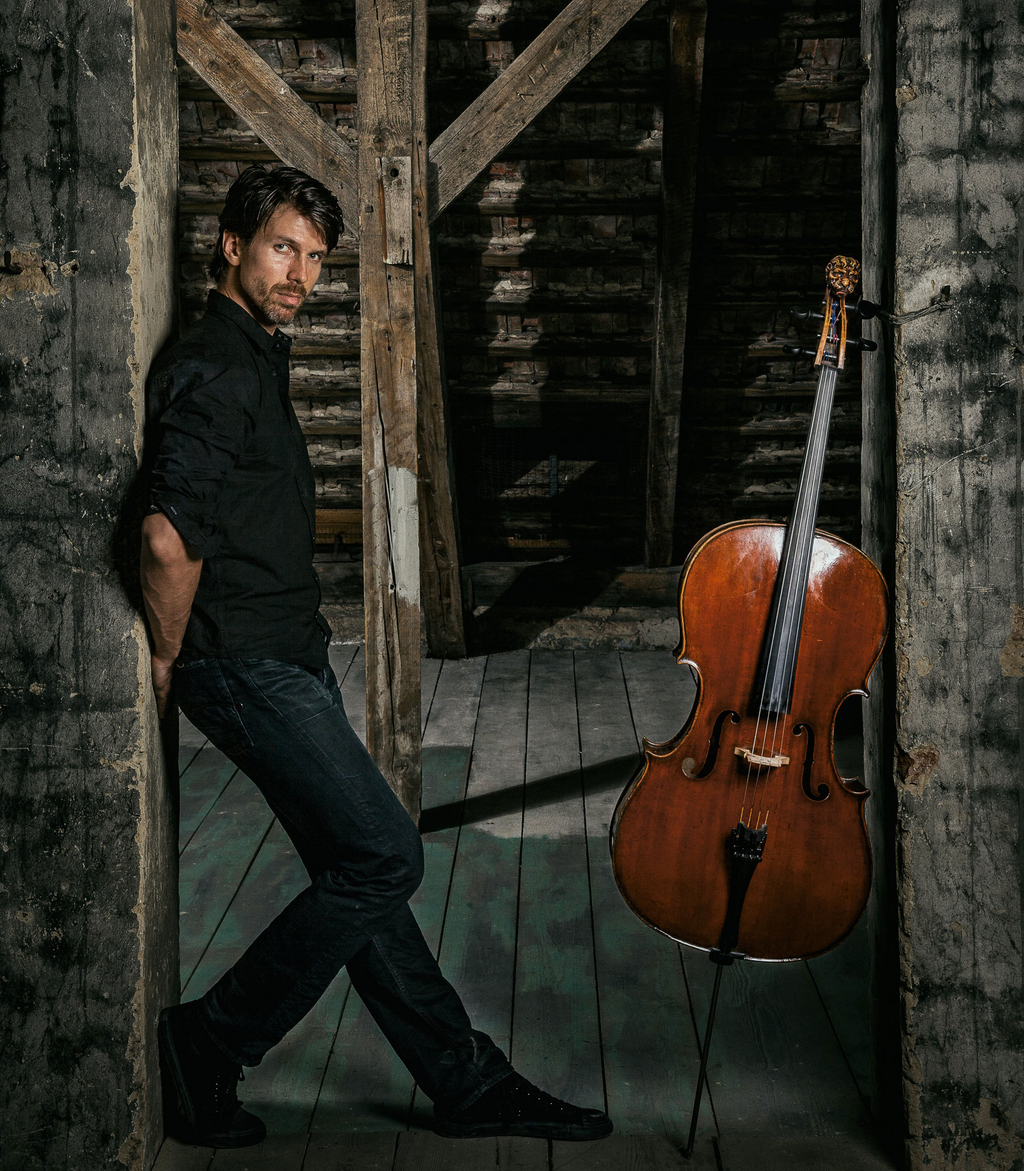
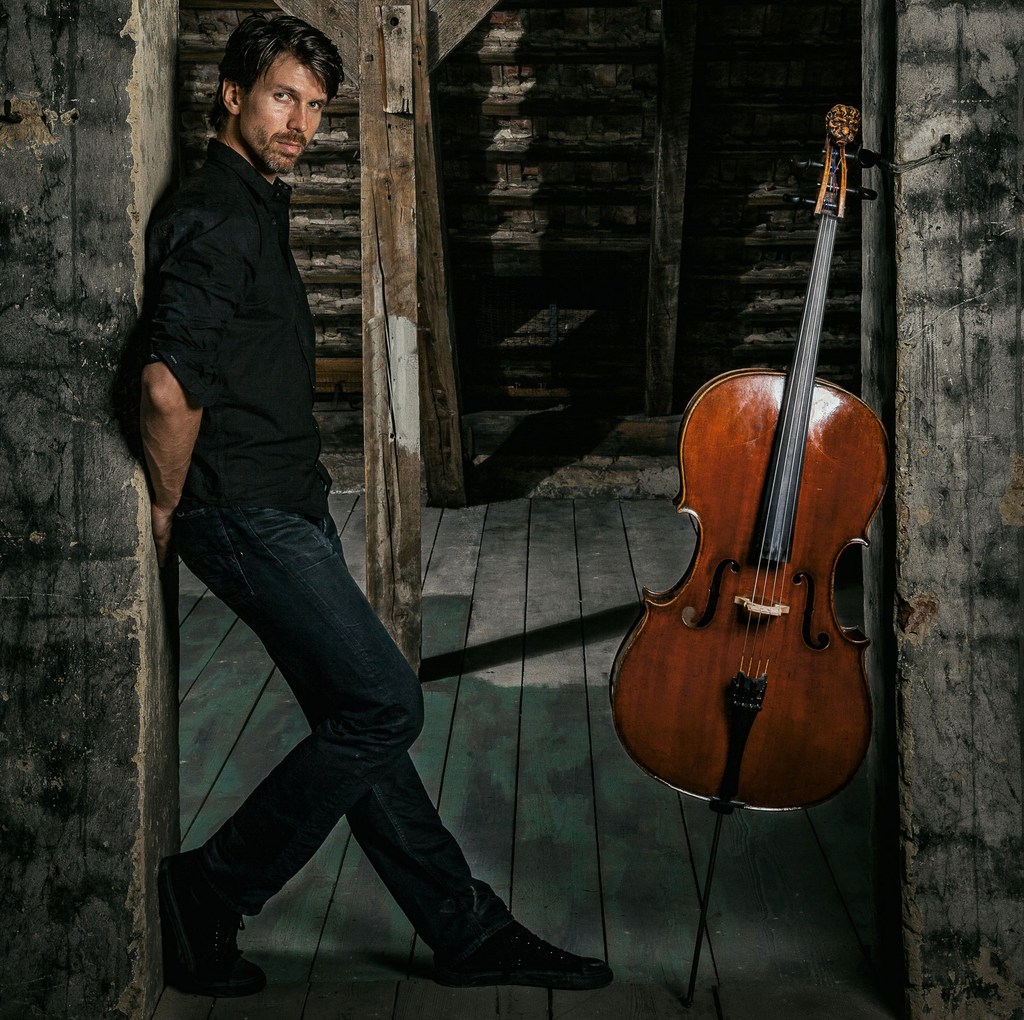
slideshow 4images

diff --git a/static/css/sacra.css b/static/css/sacra.css
@@ -148,6 +148,9 @@ main p{
     padding-left: 10%;
     padding-right: 10%;
 }
+main p:last-of-type{
+    margin-bottom: 4rem;
+}
 main .justify-text p{
     text-align: justify;
 }
@@ -409,7 +412,7 @@ slider {
     display: block;
     width: 100%;
     height: 100%;
-    animation: fade 13.5s infinite;
+    animation: fade 18s infinite;
     overflow: hidden;
     background-color: #f1f1f1;
     left: 0;
@@ -421,21 +424,28 @@ slider {
     animation-delay: 0s;
     background-image: url(/media/banner/slideshow/01.jpg);
     background-size: cover;
-    background-position: center; }
+    background-position: top; }
   
   slide:nth-child(2) {
     left: 0%;
     animation-delay: 4.5s;
     background-image: url(/media/banner/slideshow/02.jpg);
     background-size: cover;
-    background-position: center; }
+    background-position: top; }
   
   slide:nth-child(3) {
     left: 0%;
     animation-delay: 9s;  
     background-image: url(/media/banner/slideshow/03.jpg);
     background-size: cover;
-    background-position: center; }
+    background-position: top; }
+
+slide:nth-child(4) {
+    left: 0%;
+    animation-delay: 13.5s;  
+    background-image: url(/media/banner/slideshow/04.jpg);
+    background-size: cover;
+    background-position: top; }
   
   @keyframes fade {
     0% {

diff --git a/templates/home/index.html b/templates/home/index.html
@@ -31,6 +31,7 @@
     <slide><p></p></slide>
     <slide><p></p></slide>
     <slide><p></p></slide>
+    <slide><p></p></slide>
 </slider>
 {% endblock %}
 
